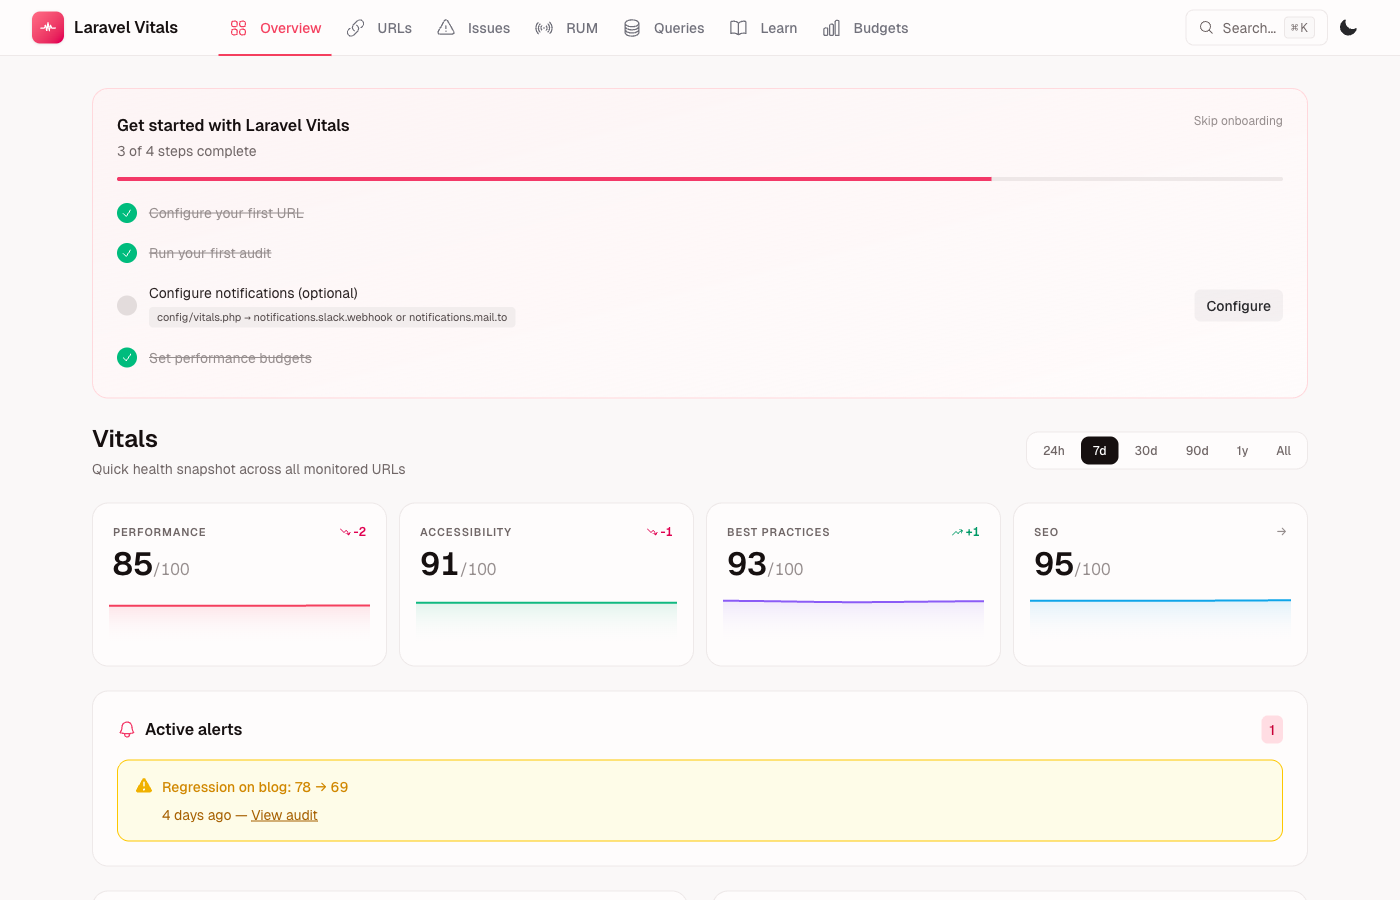
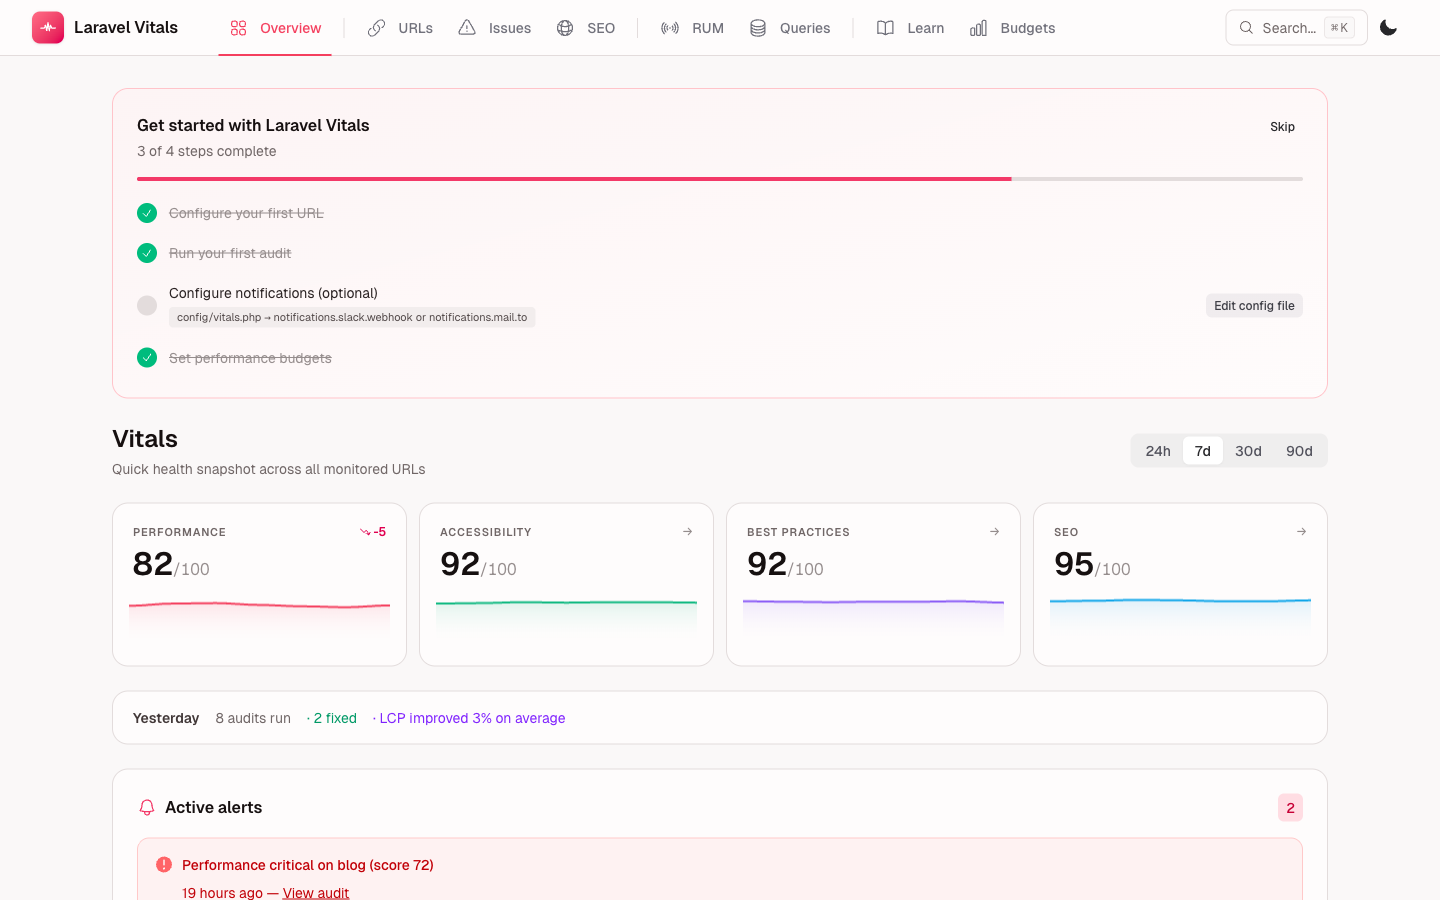
docs: refresh README screenshots and copy for v1.0.0
Captured eight new light-mode screenshots covering every dashboard surface:
overview, SEO cross-URL, per-audit SEO, audit-detail, issues all-recos,
queries, learn. Dark-mode variants were orphaned by these replacements and
removed from docs/screenshots.

README updates:
- Database query baselines: rewritten to use the plain-language "Typical /
  Worst case" labels, document the per-route drill-down (affected URLs +
  recent audits + repeated SQL patterns), and mention the N+1 inline badge
- Issues page: describes severity-tinted cards (amber/rose/sky), title color
  inheriting severity, "N occurrences" trailing button
- Learn knowledge base: bumped count to 73 issue types, mentions persistent
  category tinting + Recommended/Avoid code samples
- Dashboard section: page count corrected to 8 (SEO added between Issues and
  RUM)
- SEO checks section: added per-audit SEO deep-view screenshot below the
  cross-URL one

diff --git a/README.md b/README.md
@@ -11,9 +11,9 @@
 **Performance auditing, Real User Monitoring, and actionable recommendations — all inside your Laravel app.**
 
 <p align="center">
-  <img src="docs/screenshots/overview-dark.png" alt="Laravel Vitals — Overview dashboard in dark mode" width="900">
+  <img src="docs/screenshots/overview-light.png" alt="Laravel Vitals — Overview dashboard" width="900">
   <br/>
-  <em>Overview dashboard — lens cards with sparklines, onboarding progress, active alerts</em>
+  <em>Overview dashboard — onboarding progress, lens cards with sparklines, recent activity, active alerts</em>
 </p>
 
 ---
@@ -157,7 +157,19 @@ Laravel Vitals ships its own SEO check engine that runs alongside every Lighthou
 | Meta (7) | Meta description, title length, Open Graph image, HTML lang, canonical URL, JSON-LD structured data, invalid head elements |
 | Performance (7) | TTFB ≤ 600ms, HTTP status code, HTML size, image size, JS bundle size, CSS size, gzip/Brotli compression |
 
-Results appear on **`/vitals/audits/{id}/seo`** (per-audit deep view with actual vs expected values, hint text, and links to Google documentation) and on the new **`/vitals/seo`** cross-URL page (aggregated score table, top failing checks by category, period filter).
+Results appear on **`/vitals/audits/{id}/seo`** (per-audit deep view with actual vs expected values, hint text, and links to Google documentation) and on the **`/vitals/seo`** cross-URL page (aggregated score table, top failing checks by category, period filter).
+
+<p align="center">
+  <img src="docs/screenshots/seo-light.png" alt="SEO — average score, per-URL table, top failing checks with category filter" width="900">
+  <br/>
+  <em>SEO — average score across URLs, per-URL custom + Lighthouse scores, top failing checks filtered by category</em>
+</p>
+
+<p align="center">
+  <img src="docs/screenshots/audit-seo-light.png" alt="Per-audit SEO deep view — checks grouped by Configuration / Content / Meta / Performance" width="900">
+  <br/>
+  <em>Per-audit SEO deep view — each check grouped by category, with actual vs expected values and direct links to Google documentation</em>
+</p>
 
 The combined `vitals_seo_score` blends Lighthouse's SEO score (50%) with the weighted pass rate of all custom checks (50%), producing a stricter 0–100 score.
 
@@ -227,9 +239,23 @@ Add `@vitalsRum` to your layout's `<head>` to collect Core Web Vitals (LCP, INP,
 
 ### Database query baselines
 
+<p align="center">
+  <img src="docs/screenshots/queries-light.png" alt="Database queries — per-route Typical / Worst case query counts and times" width="900">
+  <br/>
+  <em>Queries — per-route stats with N+1 badges, plain-language Typical / Worst case labels, and memory-hungry route ranking</em>
+</p>
+
 The `/vitals/queries` page answers a question most teams cannot: "Did this recent deployment slow down the database on route X?"
 
-For each route with telemetry data you get average, p75, and p95 query count and query time. Routes are compared to the previous equivalent period — if you are looking at 7 days, it compares to the 7 days before that. A route is flagged with a regression badge when its current p75 query count is more than double what it was in the baseline period. The page also surfaces the top 5 routes by p75 peak memory — useful for catching routes that spike to 256 MB on 25% of requests before they cause production incidents.
+For each route with telemetry data you get the number of samples, **Typical** (75th percentile) and **Worst case** (95th percentile) for both query count and query time. Routes are compared to the previous equivalent period — if you are looking at 7 days, it compares to the 7 days before that. A route is flagged with a regression badge when its current Typical query count is more than double the baseline. Any route whose audits have triggered N+1 detection gets a red **N+1** badge inline with its name.
+
+Click any route to expand a per-route panel below the table with:
+
+- **Affected URLs** — every URL that hit this route in the period, linking back to URL detail.
+- **Recent audits** — last five audits with this route name, with their queries count and time.
+- **Repeated SQL patterns** — the top SQL patterns the N+1 detector caught on this route, with occurrence count and the exact `file:line` caller (clickable, opens in your IDE).
+
+A "Memory-hungry routes" panel below ranks the top 5 routes by typical peak memory — useful for catching routes that spike to 256 MB on 25% of requests before they cause production incidents.
 
 ---
 
@@ -259,12 +285,12 @@ php artisan vitals:audit --all --sync --fail-on-budget --format=junit > results.
 A Livewire application at `/vitals` — no asset compilation required in your app.
 
 <p align="center">
-  <img src="docs/screenshots/url-detail-dark.png" alt="URL detail — performance trend with score annotations" width="900">
+  <img src="docs/screenshots/audit-detail-light.png" alt="Audit detail — score gauges and Core Web Vitals breakdown" width="900">
   <br/>
-  <em>URL detail — area chart with daily scores, metric toggle, and period selector</em>
+  <em>Audit detail — Performance / Accessibility / Best Practices / SEO score gauges with delta vs previous audit, Core Web Vitals cards, front-end ↔ back-end timing breakdown</em>
 </p>
 
-Seven top-level pages: Overview · URLs · Issues · RUM · Queries · Learn · Budgets. A built-in Cmd+K spotlight searches across URLs, audits, and recommendations anywhere in the dashboard.
+Eight top-level pages: Overview · URLs · Issues · SEO · RUM · Queries · Learn · Budgets. A built-in Cmd+K spotlight searches across URLs, audits, and recommendations anywhere in the dashboard.
 
 **Access control:** available in `local` by default. To allow access in production, define the `viewVitals` gate:
 
@@ -279,14 +305,14 @@ Vitals::authorize(fn ($user) => $user?->is_admin ?? false);
 ### Issues page
 
 <p align="center">
-  <img src="docs/screenshots/issues-dark.png" alt="Issues — Top issues tab with Quick Wins callouts" width="900">
+  <img src="docs/screenshots/issues-light.png" alt="Issues — All recommendations with severity-tinted cards" width="900">
   <br/>
-  <em>Issues — Quick Wins, Worsening URLs, Improving URLs, third-party costs</em>
+  <em>Issues — All recommendations aggregated across audits, each card tinted by severity (amber / rose / sky) with title color matching</em>
 </p>
 
 `/vitals/issues` has two tabs. **Top issues** shows cross-URL quick wins, URLs that are currently worsening or improving, and third-party script cost breakdowns. **All recommendations** aggregates every recommendation across all audits, sorted by frequency — making it easy to find the one fix that would improve the most pages at once.
 
-Each recommendation row links to `/vitals/issues/{audit_key}` — a deep view that shows every occurrence grouped by URL, with the exact file and line where the issue originates in your code. For N+1 queries, this page lists the top 3 repeated SQL patterns with occurrence counts and caller location.
+Each row is a severity-tinted card: amber for warning, rose for critical, sky for info. The title link inherits the card's severity color so the page reads at a glance — no need to parse small badges. Click any title (or the trailing `N occurrences` button) to land on `/vitals/issues/{audit_key}` — a deep view that shows every occurrence grouped by URL, with the exact file and line where the issue originates in your code. For N+1 queries, this page lists the top 3 repeated SQL patterns with occurrence counts and caller location.
 
 Each recommendation includes severity (info / warning / critical), category (Performance, Accessibility, Best Practices, SEO), the source code reference (file + line), a one-sentence fix hint, and links to the relevant web.dev article and Laravel documentation. The package covers Lighthouse findings, Laravel-specific issues (missing `config:cache`, debug mode in production, sync queue, disabled OPcache), and backend signals (N+1 queries with SQL attribution, slow queries, large payloads).
 
@@ -295,12 +321,12 @@ Each recommendation includes severity (info / warning / critical), category (Per
 ### Learn knowledge base
 
 <p align="center">
-  <img src="docs/screenshots/learn-dark.png" alt="Learn — category tiles and recommendation cards" width="900">
+  <img src="docs/screenshots/learn-light.png" alt="Learn — category tiles and severity-tinted recommendation cards" width="900">
   <br/>
-  <em>Learn — ~42 issue types explained with web.dev / Laravel doc links and code samples</em>
+  <em>Learn — 73 issue types explained with web.dev / Laravel doc links, severity-tinted cards, and Recommended / Avoid code samples</em>
 </p>
 
-`/vitals/learn` is a browsable knowledge base of approximately 42 known issue types, grouped by category. Each entry covers what causes the finding, its impact, and how to fix it — with links to web.dev and the relevant Laravel documentation.
+`/vitals/learn` is a browsable knowledge base of every detectable issue, grouped by category (Performance, Accessibility, Best Practices, SEO). Each entry covers what causes the finding, its impact, and how to fix it — with links to web.dev and the relevant Laravel documentation, plus side-by-side **Recommended** / **Avoid** code snippets when relevant. The category tiles at the top double as filters and show the active-in-your-app count per category, so you can spot which class of issues currently bites your project hardest.
 
 ---
 